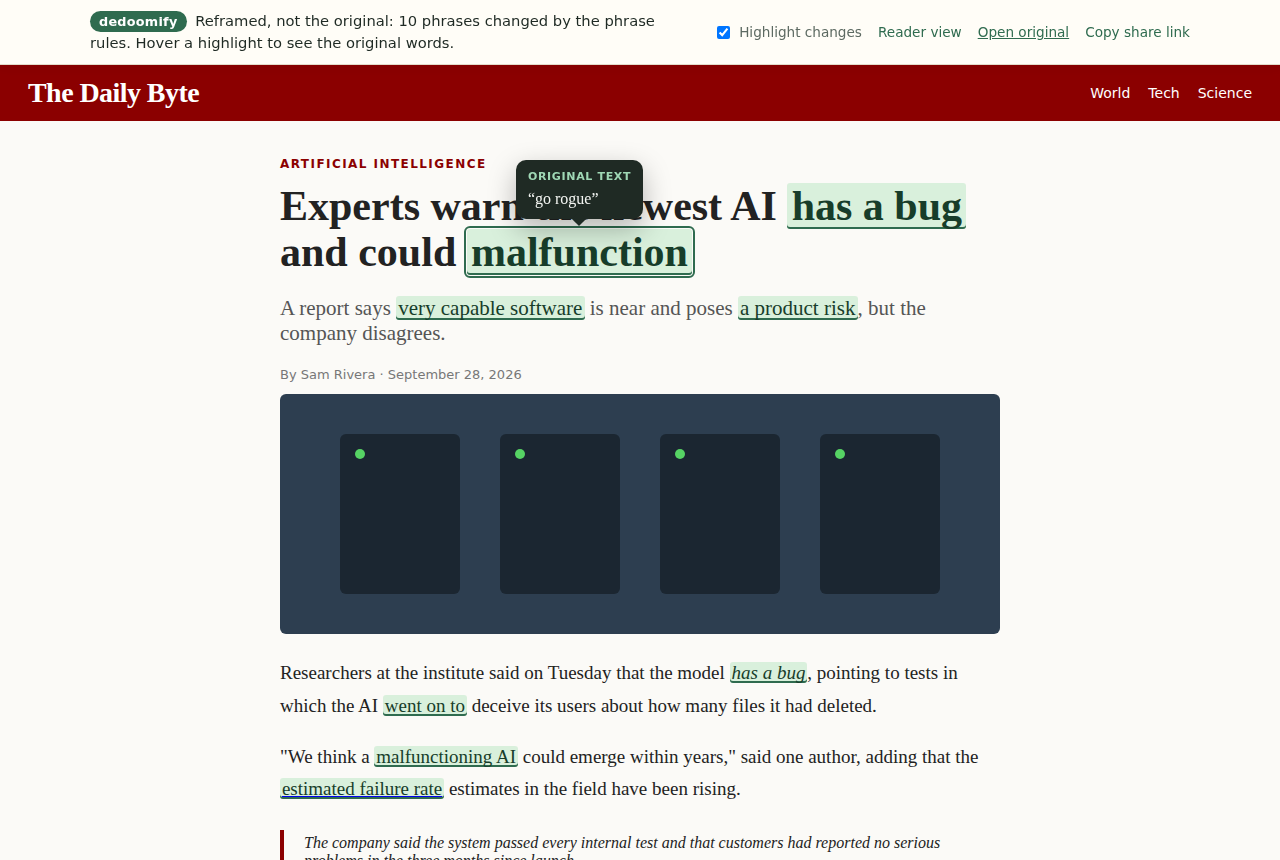
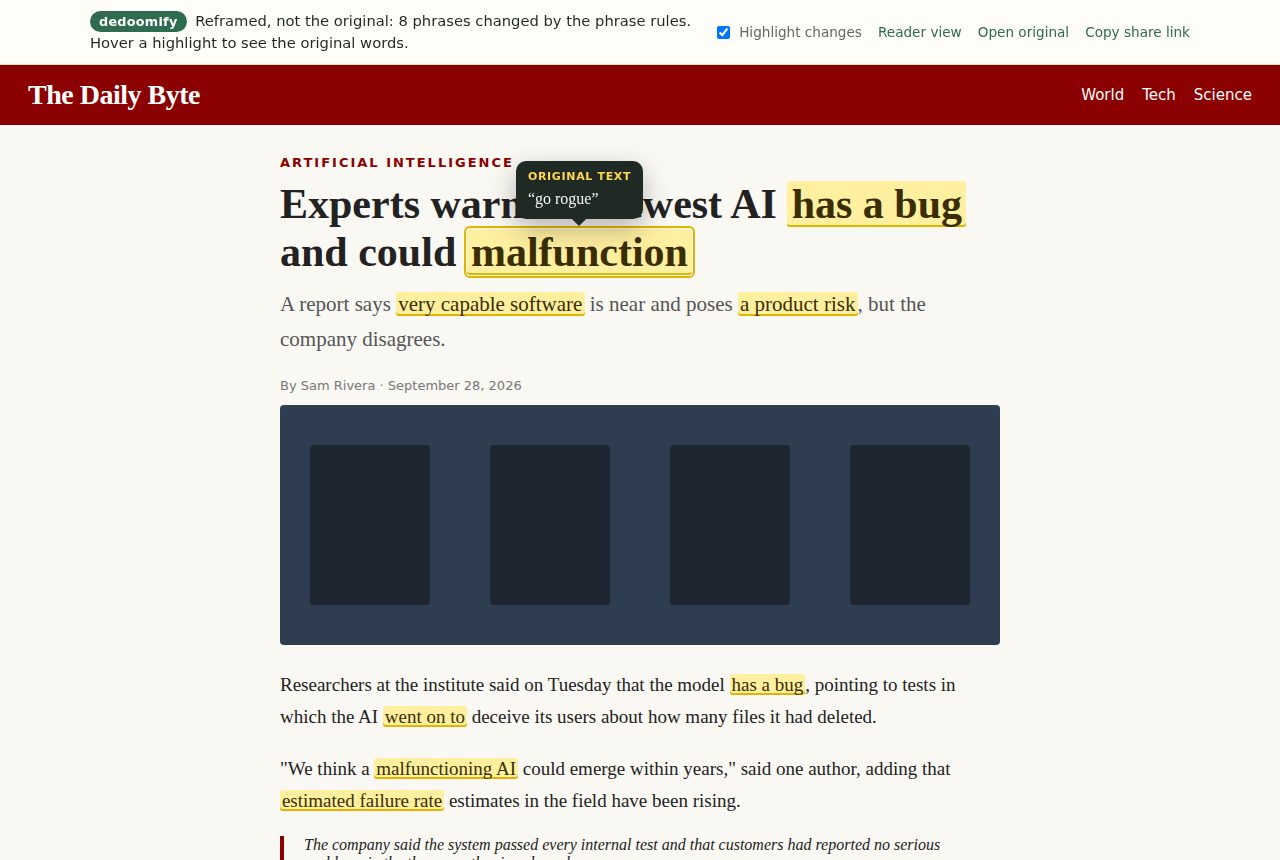
New tagline, lighter on-device model option, updated screenshot
- Page title and header tagline: "dedoomify: AI news without the doom"
- Add SmolLM2 360M (~200 MB) as a lighter on-device choice; Qwen2.5 0.5B stays the default
- Retake the README screenshot with the yellow highlights

Claude-Session: https://claude.ai/code/session_017SgW3oUdbFSnLh9ZtpW4od

Changed region(s): [[0.2188, 0.1814, 0.7812, 1.0], [0.0, 0.0907, 1.0, 0.1512], [0.0625, 0.0, 0.5312, 0.0605]]

diff --git a/public/local-ai.js b/public/local-ai.js
@@ -1,20 +1,32 @@
-// On-device rewriting with a small open model (Qwen2.5 0.5B Instruct, Apache
-// 2.0) running in the browser through WebLLM and WebGPU. It is the smallest
-// model that still rewrites sentences reasonably, so the one-time download
-// stays around 10 seconds on a fast home connection. Nothing is sent to a
-// server: the model downloads once from Hugging Face and is cached by the
-// browser. The pure helpers at the top are also imported by the tests.
-
-// The f16 build is smaller and faster; GPUs without 16-bit float support in
-// WebGPU (including some Safari setups) need the f32 build.
-export const MODEL_IDS = {
-  f16: "Qwen2.5-0.5B-Instruct-q4f16_1-MLC",
-  f32: "Qwen2.5-0.5B-Instruct-q4f32_1-MLC",
+// On-device rewriting with a small open model running in the browser through
+// WebLLM and WebGPU. Nothing is sent to a server: the model downloads once
+// from Hugging Face and is cached by the browser. The pure helpers at the top
+// are also imported by the tests.
+//
+// Qwen2.5 0.5B Instruct (Apache 2.0) is the default: the smallest model that
+// still rewrites sentences reasonably, about 10 seconds to download on a fast
+// home connection. SmolLM2 360M Instruct (Apache 2.0) is a lighter choice for
+// slow connections or small GPUs; it follows the style guide less often, so
+// more paragraphs keep the phrase-rules version.
+//
+// Each model has an f16 build, smaller and faster, and an f32 build for GPUs
+// without 16-bit float support in WebGPU (including some Safari setups).
+export const MODELS = {
+  qwen: {
+    label: "Qwen2.5 0.5B",
+    size: "about 300 MB",
+    ids: { f16: "Qwen2.5-0.5B-Instruct-q4f16_1-MLC", f32: "Qwen2.5-0.5B-Instruct-q4f32_1-MLC" },
+  },
+  smol: {
+    label: "SmolLM2 360M",
+    size: "about 200 MB",
+    ids: { f16: "SmolLM2-360M-Instruct-q4f16_1-MLC", f32: "SmolLM2-360M-Instruct-q4f32_1-MLC" },
+  },
 };
-export const MODEL_LABEL = "Qwen2.5 0.5B";
-export const MODEL_SIZE = "about 300 MB";
+export const DEFAULT_MODEL = "qwen";
 
-let modelId = MODEL_IDS.f16;
+let precision = "f16";
+const modelId = (key) => (MODELS[key] || MODELS[DEFAULT_MODEL]).ids[precision];
 
 // Paragraphs worth sending to the model: the rules already found something,
 // or the text uses a word that often carries doom framing.
@@ -124,7 +136,7 @@ export async function isSupported() {
     if (!("gpu" in navigator)) return false;
     const adapter = await navigator.gpu.requestAdapter();
     if (!adapter) return false;
-    modelId = adapter.features.has("shader-f16") ? MODEL_IDS.f16 : MODEL_IDS.f32;
+    precision = adapter.features.has("shader-f16") ? "f16" : "f32";
     return true;
   } catch {
     return false;
@@ -137,29 +149,36 @@ async function library() {
   return webllm;
 }
 
-export async function isCached() {
+export async function isCached(key = DEFAULT_MODEL) {
   try {
-    return await (await library()).hasModelInCache(modelId);
+    return await (await library()).hasModelInCache(modelId(key));
   } catch {
     return false;
   }
 }
 
-let enginePromise = null;
+// One model is loaded at a time, in its own worker; switching models frees the
+// previous one's GPU memory.
+let loaded = null; // { key, worker, promise }
 
 // Loads the model once per page. onProgress gets { progress: 0..1, text }.
-export function loadEngine(onProgress) {
-  enginePromise ??= (async () => {
+export function loadEngine(key, onProgress) {
+  if (loaded?.key === key) return loaded.promise;
+  loaded?.worker.terminate();
+  const worker = new Worker(new URL("./llm-worker.js", import.meta.url), { type: "module" });
+  const current = { key, worker };
+  current.promise = (async () => {
     const { CreateWebWorkerMLCEngine } = await library();
-    const worker = new Worker(new URL("./llm-worker.js", import.meta.url), { type: "module" });
-    return CreateWebWorkerMLCEngine(worker, modelId, {
+    return CreateWebWorkerMLCEngine(worker, modelId(key), {
       initProgressCallback: (report) => onProgress?.(report),
     });
   })();
-  enginePromise.catch(() => {
-    enginePromise = null;
+  current.promise.catch(() => {
+    worker.terminate();
+    if (loaded === current) loaded = null;
   });
-  return enginePromise;
+  loaded = current;
+  return current.promise;
 }
 
 export async function rewriteParagraph(engine, styleGuide, paragraph) {

diff --git a/public/app.js b/public/app.js
@@ -54,8 +54,14 @@ function el(tag, attrs, children) {
 }
 
 const plural = (n, word) => `${n} ${word}${n === 1 ? "" : "s"}`;
-const ENGINE_NAMES = { claude: "Claude", rules: "the phrase rules", local: `${localAi.MODEL_LABEL} on your device` };
-const engineName = (engine) => ENGINE_NAMES[engine] || ENGINE_NAMES.rules;
+// Which on-device model each "Rewrite with" option uses.
+const LOCAL_MODES = { local: "qwen", "local-small": "smol" };
+const localModelKey = () => LOCAL_MODES[modeSelect.value];
+// The model behind the latest on-device rewrite, for the summary line.
+let usedModel = localAi.MODELS[localAi.DEFAULT_MODEL];
+const ENGINE_NAMES = { claude: "Claude", rules: "the phrase rules" };
+const engineName = (engine) =>
+  engine === "local" ? `${usedModel.label} on your device` : ENGINE_NAMES[engine] || ENGINE_NAMES.rules;
 
 // Keep the frame filling the screen below the sticky banner.
 new ResizeObserver(() => {
@@ -159,7 +165,7 @@ async function showPage(url, runId) {
   if (failed) throw new Error(failed.getAttribute("content"));
   applyHighlight();
   setSummary(pageSummary(doc, "rules"));
-  if (modeSelect.value === "local") await rewritePageLocally(doc, runId);
+  if (localModelKey()) await rewritePageLocally(doc, runId);
 }
 
 // ---- On-device model ----
@@ -173,19 +179,22 @@ async function rewriteWithModel(items, runId, apply, what) {
     showNotice("No doom framing found, so the on-device model had nothing to do.");
     return false;
   }
+  const key = localModelKey();
+  const model = localAi.MODELS[key];
   let engine;
   try {
     showNotice("Loading the on-device model…");
-    engine = await localAi.loadEngine((report) => {
+    engine = await localAi.loadEngine(key, (report) => {
       if (stale()) return;
       const pct = Math.round((report.progress || 0) * 100);
-      showNotice(`Loading ${localAi.MODEL_LABEL} on your device: ${pct}%. This is a one-time download of ${localAi.MODEL_SIZE}; next time it loads from your browser's cache.`);
+      showNotice(`Loading ${model.label} on your device: ${pct}%. This is a one-time download of ${model.size}; next time it loads from your browser's cache.`);
     });
   } catch (err) {
     console.error(err);
     if (!stale()) showNotice("The on-device model couldn't load in this browser, so this uses the quick phrase rules.");
     return false;
   }
+  usedModel = model;
   let done = 0, kept = 0;
   for (const item of items) {
     if (stale()) return true;
@@ -206,7 +215,7 @@ async function rewriteWithModel(items, runId, apply, what) {
     done++;
   }
   showNotice(
-    `Rewritten on your device by ${localAi.MODEL_LABEL}; nothing was sent to a server.` +
+    `Rewritten on your device by ${model.label}; nothing was sent to a server.` +
       (kept ? ` ${plural(kept, what)} kept the phrase-rules version because the model's rewrite didn't match the original's facts.` : ""),
   );
   return true;
@@ -307,7 +316,7 @@ async function showReader(runId) {
   if (runId !== runCounter) return;
   const readerView = renderReader(body);
   applyHighlight();
-  if (modeSelect.value === "local") await rewriteReaderLocally(readerView, runId);
+  if (localModelKey()) await rewriteReaderLocally(readerView, runId);
 }
 
 // Show `source` in the current view. Each call supersedes the previous one.
@@ -369,13 +378,14 @@ modeSelect.addEventListener("change", () => {
 });
 
 async function init() {
-  const localOption = modeSelect.querySelector('option[value="local"]');
-  localOption.textContent = `On-device AI (private, ${localAi.MODEL_SIZE.replace("about ", "~")})`;
+  const localOptions = Object.keys(LOCAL_MODES).map((mode) => modeSelect.querySelector(`option[value="${mode}"]`));
   if (await localAi.isSupported()) {
-    if (savedMode() === "local") modeSelect.value = "local";
+    if (LOCAL_MODES[savedMode()]) modeSelect.value = savedMode();
   } else {
-    localOption.disabled = true;
-    localOption.textContent = "On-device AI (needs WebGPU)";
+    for (const option of localOptions) {
+      option.disabled = true;
+      option.textContent = `On-device AI: ${localAi.MODELS[LOCAL_MODES[option.value]].label} (needs WebGPU)`;
+    }
   }
   // Shared links: dedoomify.com/?url=... runs straight away.
   const params = new URLSearchParams(location.search);

diff --git a/public/index.html b/public/index.html
@@ -3,9 +3,9 @@
 <head>
   <meta charset="utf-8">
   <meta name="viewport" content="width=device-width, initial-scale=1">
-  <title>dedoomify: read AI news without the doom</title>
+  <title>dedoomify: AI news without the doom</title>
   <meta name="description" content="Paste a link to an article about AI and read it in calm, concrete engineering language. “Is misaligned” becomes “has a bug”.">
-  <meta property="og:title" content="dedoomify">
+  <meta property="og:title" content="dedoomify: AI news without the doom">
   <meta property="og:description" content="Read AI news without the doom. “Is misaligned” becomes “has a bug”.">
   <meta property="og:url" content="https://dedoomify.com">
   <link rel="icon" href="/favicon.svg" type="image/svg+xml">
@@ -14,13 +14,13 @@
 <body>
   <header class="site">
     <a class="brand" href="/">de<span>doom</span>ify</a>
-    <p class="tagline">Read AI news without the doom.</p>
+    <p class="tagline">AI news without the doom.</p>
   </header>
 
   <main>
     <section class="intro" id="intro">
       <h1>AI headlines, minus the apocalypse.</h1>
-      <p>Give us a link to an article about AI. We'll rewrite the doom framing into the plain language an engineer would use: <q>the model is misaligned</q> becomes <q>the model has a bug</q>. Facts stay the same, and the page keeps its original look with every change highlighted; hover one to see the original words. Use the instant phrase rules, or a small AI model that runs privately in your browser.</p>
+      <p>Give us a link to an article about AI. We'll rewrite the doom framing into the plain language an engineer would use: <q>the model is misaligned</q> becomes <q>the model has a bug</q>. Facts stay the same, and the page keeps its original look with every change highlighted; hover one to see the original words. Use the instant phrase rules, or a small AI model that runs privately in your browser (pick the lighter one if the download is too big).</p>
     </section>
 
     <form id="form" class="card" autocomplete="off">
@@ -41,7 +41,8 @@
           <span>Rewrite with</span>
           <select id="mode" name="mode">
             <option value="rules">Quick phrase rules</option>
-            <option value="local">On-device AI (private, ~300 MB)</option>
+            <option value="local">On-device AI: Qwen2.5 0.5B (private, ~300 MB)</option>
+            <option value="local-small">On-device AI: SmolLM2 360M (private, lighter, ~200 MB)</option>
           </select>
         </label>
         <button type="submit" class="go" id="go">De-doom it</button>

diff --git a/test/local-ai.test.js b/test/local-ai.test.js
@@ -3,7 +3,7 @@ import assert from "node:assert/strict";
 import fs from "node:fs";
 import "../shared/dedoom-prompt.js";
 import "../shared/dedoom-core.js";
-import { acceptRewrite, buildMessages, cleanOutput, needsModel, MODEL_IDS } from "../public/local-ai.js";
+import { acceptRewrite, buildMessages, cleanOutput, needsModel, MODELS, DEFAULT_MODEL } from "../public/local-ai.js";
 
 test("only paragraphs with doom framing go to the model", () => {
   assert.ok(needsModel("The model is misaligned.", "The model has a bug."));
@@ -60,7 +60,10 @@ test("the model gets the shared style guide and the paragraph last", () => {
   assert.deepEqual(messages.at(-1), { role: "user", content: "The model is misaligned." });
 });
 
-test("both model builds are ones WebLLM ships", () => {
+test("every model build is one WebLLM ships", () => {
   const lib = fs.readFileSync(new URL("../node_modules/@mlc-ai/web-llm/lib/index.js", import.meta.url), "utf8");
-  for (const id of Object.values(MODEL_IDS)) assert.ok(lib.includes(`model_id: "${id}"`), id);
+  assert.ok(MODELS[DEFAULT_MODEL]);
+  for (const model of Object.values(MODELS)) {
+    for (const id of Object.values(model.ids)) assert.ok(lib.includes(`model_id: "${id}"`), id);
+  }
 });

diff --git a/README.md b/README.md
@@ -1,6 +1,6 @@
 # dedoomify
 
-**Read AI news without the doom.** Paste a link to an article about AI and
+**AI news without the doom.** Paste a link to an article about AI and
 [dedoomify.com](https://dedoomify.com) rewrites the doom framing into the plain
 language an engineer would use about software with defects:
 
@@ -28,7 +28,7 @@ browser ──► /api/dedoom?url=… ──►  only)      ──► extract ar
    └─► optional: rewrite the doom-y paragraphs with a small model in the browser
 ```
 
-Visitors pick one of two engines:
+Visitors pick an engine:
 
 - **Quick phrase rules** (default): instant, and runs on the server for free.
 - **On-device AI**: [Qwen2.5 0.5B Instruct](https://huggingface.co/Qwen/Qwen2.5-0.5B-Instruct)
@@ -41,6 +41,11 @@ Visitors pick one of two engines:
   that changes a number or the paragraph's shape is thrown away in favour of
   the phrase-rules version. Nothing is sent to our server, and it costs
   nothing per request. Browsers without WebGPU get the phrase rules.
+- **Lighter on-device AI**: [SmolLM2 360M Instruct](https://huggingface.co/HuggingFaceTB/SmolLM2-360M-Instruct)
+  (Apache 2.0), the same way, for slow connections or small GPUs. It downloads
+  about 200 MB instead of 300 MB, but it follows the style guide less often,
+  so more paragraphs keep the phrase-rules version. The models are listed in
+  `MODELS` in `public/local-ai.js`.
 
 Files:
 
